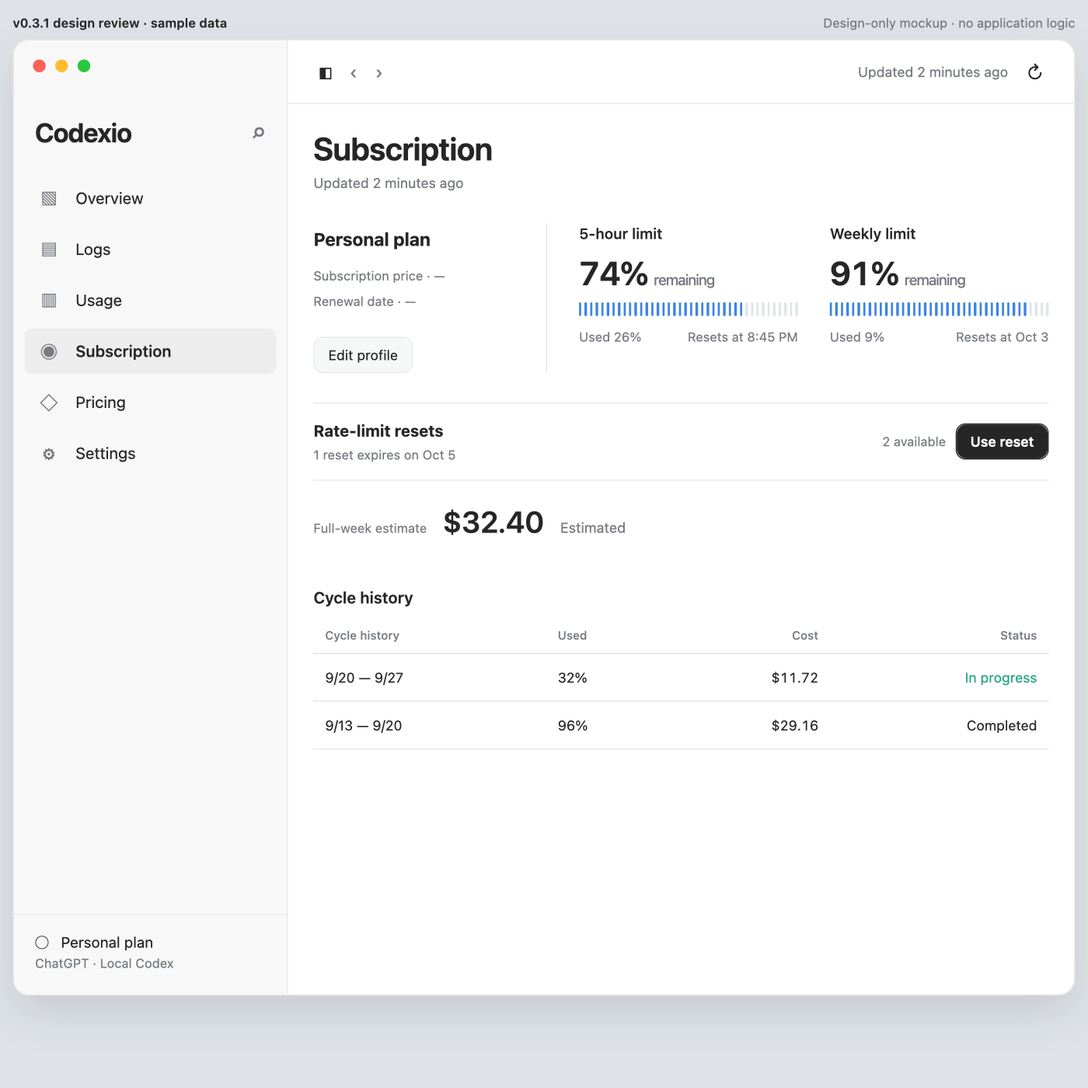
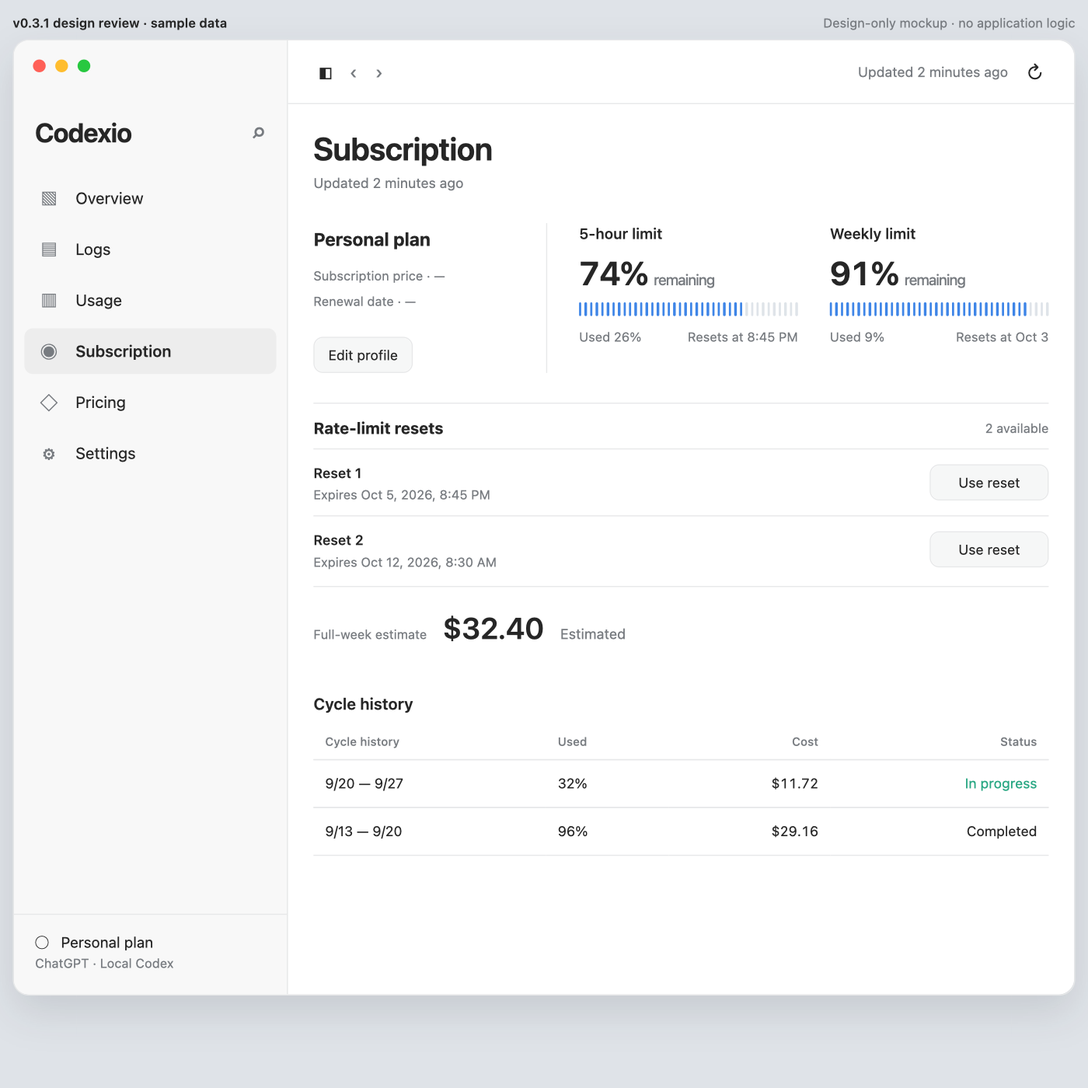
docs: design per-credit reset controls for v0.3.1

diff --git a/docs/v0.3.1/mockups/reset-confirm-zh.html b/docs/v0.3.1/mockups/reset-confirm-zh.html
@@ -1,1 +1,1 @@
-<!doctype html><html lang="zh-Hans"><head><meta charset="utf-8"><meta name="viewport" content="width=device-width,initial-scale=1"><title>Codexio 订阅 · v0.3.1 design</title><link rel="stylesheet" href="style.css"></head><body><div class="review-bar"><b>v0.3.1 设计评审 · 示意数据</b><span>Design-only mockup · no application logic</span></div><div class="window"><aside class="sidebar"><div class="traffic"><span></span><span></span><span></span></div><div class="brand">Codexio <span class="search">⌕</span></div><div class="nav"><div class="nav-item "><span class="icon">▧</span>概览</div><div class="nav-item "><span class="icon">▤</span>日志</div><div class="nav-item "><span class="icon">▥</span>用量</div><div class="nav-item active"><span class="icon">◉</span>订阅</div><div class="nav-item "><span class="icon">◇</span>定价</div><div class="nav-item "><span class="icon">⚙</span>设置</div></div><div class="side-bottom">◯ &nbsp; 个人订阅<div class="sub">ChatGPT · 本机 Codex</div></div></aside><main class="main"><div class="toolbar"><div class="left"><span class="glyph">◧</span><span>‹</span><span>›</span></div><div class="right"><span>最近更新 2 分钟前</span><span class="glyph" aria-label="刷新">↻</span></div></div><div class="page"><div class="page-header"><div><h1>订阅</h1><div class="subtitle">最近更新 2 分钟前</div></div></div><div class="profile-grid"><div class="profile"><b>个人订阅计划</b><div>订阅价格 · —</div><div>续费日期 · —</div><span class="quiet-button" style="margin-top:17px">编辑资料</span></div><div class="quota"><div class="quota-top"><span class="name">5 小时额度</span><span class="percent">74%<small>剩余</small></span></div><div class="segments "><i class="on"></i><i class="on"></i><i class="on"></i><i class="on"></i><i class="on"></i><i class="on"></i><i class="on"></i><i class="on"></i><i class="on"></i><i class="on"></i><i class="on"></i><i class="on"></i><i class="on"></i><i class="on"></i><i class="on"></i><i class="on"></i><i class="on"></i><i class="on"></i><i class="on"></i><i class="on"></i><i class="on"></i><i class="on"></i><i class="on"></i><i class="on"></i><i class="on"></i><i class="on"></i><i class="on"></i><i class="on"></i><i class="on"></i><i class="on"></i><i></i><i></i><i></i><i></i><i></i><i></i><i></i><i></i><i></i><i></i></div><div class="quota-foot"><span>已用 26%</span><span>重置时间 20:45</span></div></div><div class="quota"><div class="quota-top"><span class="name">周额度</span><span class="percent">91%<small>剩余</small></span></div><div class="segments "><i class="on"></i><i class="on"></i><i class="on"></i><i class="on"></i><i class="on"></i><i class="on"></i><i class="on"></i><i class="on"></i><i class="on"></i><i class="on"></i><i class="on"></i><i class="on"></i><i class="on"></i><i class="on"></i><i class="on"></i><i class="on"></i><i class="on"></i><i class="on"></i><i class="on"></i><i class="on"></i><i class="on"></i><i class="on"></i><i class="on"></i><i class="on"></i><i class="on"></i><i class="on"></i><i class="on"></i><i class="on"></i><i class="on"></i><i class="on"></i><i class="on"></i><i class="on"></i><i class="on"></i><i class="on"></i><i class="on"></i><i class="on"></i><i></i><i></i><i></i><i></i></div><div class="quota-foot"><span>已用 9%</span><span>重置时间 10 月 3 日</span></div></div></div><div class="reset-row"><div><b>主动重置</b><div class="count" style="margin-top:6px">1 次将于 10 月 5 日到期</div></div><div class="button-row"><span class="count">2 次可用</span><span class="primary-button">使用重置</span></div></div><div class="estimate"><span class="overline">整周额度估值</span><strong>$32.40</strong><small>估算</small></div><div class="list-heading"><strong>周期记录</strong></div><table class="table"><thead><tr><th>周期记录</th><th>已用</th><th class="num">费用</th><th class="num">状态</th></tr></thead><tbody><tr><td>9/20 — 9/27</td><td>32%</td><td class="num">$11.72</td><td class="num good">进行中</td></tr><tr><td>9/13 — 9/20</td><td>96%</td><td class="num">$29.16</td><td class="num">已完成</td></tr></tbody></table></div></main></div><div class="modal-backdrop"><div class="modal"><h2>使用 1 次额度重置？</h2><p>这会消耗当前账户的 1 次重置，无法撤销。</p><p>2 次可用</p><div class="actions"><span class="quiet-button">取消</span><span class="primary-button">使用重置</span></div></div></div></body></html>
+<!doctype html><html lang="zh-Hans"><head><meta charset="utf-8"><meta name="viewport" content="width=device-width,initial-scale=1"><title>Codexio 订阅 · v0.3.1 design</title><link rel="stylesheet" href="style.css"></head><body><div class="review-bar"><b>v0.3.1 设计评审 · 示意数据</b><span>Design-only mockup · no application logic</span></div><div class="window"><aside class="sidebar"><div class="traffic"><span></span><span></span><span></span></div><div class="brand">Codexio <span class="search">⌕</span></div><div class="nav"><div class="nav-item "><span class="icon">▧</span>概览</div><div class="nav-item "><span class="icon">▤</span>日志</div><div class="nav-item "><span class="icon">▥</span>用量</div><div class="nav-item active"><span class="icon">◉</span>订阅</div><div class="nav-item "><span class="icon">◇</span>定价</div><div class="nav-item "><span class="icon">⚙</span>设置</div></div><div class="side-bottom">◯ &nbsp; 个人订阅<div class="sub">ChatGPT · 本机 Codex</div></div></aside><main class="main"><div class="toolbar"><div class="left"><span class="glyph">◧</span><span>‹</span><span>›</span></div><div class="right"><span>最近更新 2 分钟前</span><span class="glyph" aria-label="刷新">↻</span></div></div><div class="page"><div class="page-header"><div><h1>订阅</h1><div class="subtitle">最近更新 2 分钟前</div></div></div><div class="profile-grid"><div class="profile"><b>个人订阅计划</b><div>订阅价格 · —</div><div>续费日期 · —</div><span class="quiet-button" style="margin-top:17px">编辑资料</span></div><div class="quota"><div class="quota-top"><span class="name">5 小时额度</span><span class="percent">74%<small>剩余</small></span></div><div class="segments "><i class="on"></i><i class="on"></i><i class="on"></i><i class="on"></i><i class="on"></i><i class="on"></i><i class="on"></i><i class="on"></i><i class="on"></i><i class="on"></i><i class="on"></i><i class="on"></i><i class="on"></i><i class="on"></i><i class="on"></i><i class="on"></i><i class="on"></i><i class="on"></i><i class="on"></i><i class="on"></i><i class="on"></i><i class="on"></i><i class="on"></i><i class="on"></i><i class="on"></i><i class="on"></i><i class="on"></i><i class="on"></i><i class="on"></i><i class="on"></i><i></i><i></i><i></i><i></i><i></i><i></i><i></i><i></i><i></i><i></i></div><div class="quota-foot"><span>已用 26%</span><span>重置时间 20:45</span></div></div><div class="quota"><div class="quota-top"><span class="name">周额度</span><span class="percent">91%<small>剩余</small></span></div><div class="segments "><i class="on"></i><i class="on"></i><i class="on"></i><i class="on"></i><i class="on"></i><i class="on"></i><i class="on"></i><i class="on"></i><i class="on"></i><i class="on"></i><i class="on"></i><i class="on"></i><i class="on"></i><i class="on"></i><i class="on"></i><i class="on"></i><i class="on"></i><i class="on"></i><i class="on"></i><i class="on"></i><i class="on"></i><i class="on"></i><i class="on"></i><i class="on"></i><i class="on"></i><i class="on"></i><i class="on"></i><i class="on"></i><i class="on"></i><i class="on"></i><i class="on"></i><i class="on"></i><i class="on"></i><i class="on"></i><i class="on"></i><i class="on"></i><i></i><i></i><i></i><i></i></div><div class="quota-foot"><span>已用 9%</span><span>重置时间 10 月 3 日</span></div></div></div><div class="reset-section"><div class="reset-heading"><b>主动重置</b><span class="count">2 次可用</span></div><div class="reset-credit-row"><div><b>重置 1</b><div class="expiry">截止时间：2026 年 10 月 5 日 20:45</div></div><span class="quiet-button">使用重置</span></div><div class="reset-credit-row"><div><b>重置 2</b><div class="expiry">截止时间：2026 年 10 月 12 日 08:30</div></div><span class="quiet-button">使用重置</span></div></div><div class="estimate"><span class="overline">整周额度估值</span><strong>$32.40</strong><small>估算</small></div><div class="list-heading"><strong>周期记录</strong></div><table class="table"><thead><tr><th>周期记录</th><th>已用</th><th class="num">费用</th><th class="num">状态</th></tr></thead><tbody><tr><td>9/20 — 9/27</td><td>32%</td><td class="num">$11.72</td><td class="num good">进行中</td></tr><tr><td>9/13 — 9/20</td><td>96%</td><td class="num">$29.16</td><td class="num">已完成</td></tr></tbody></table></div></main></div><div class="modal-backdrop"><div class="modal"><h2>使用这次额度重置？</h2><p>所选：重置 1 · 截止时间 2026 年 10 月 5 日 20:45</p><p>这会消耗当前账户中所选的重置，无法撤销。</p><div class="actions"><span class="quiet-button">取消</span><span class="primary-button">使用重置</span></div></div></div></body></html>

diff --git a/docs/v0.3.1/mockups/reset-confirm-en.html b/docs/v0.3.1/mockups/reset-confirm-en.html
@@ -1,1 +1,1 @@
-<!doctype html><html lang="en"><head><meta charset="utf-8"><meta name="viewport" content="width=device-width,initial-scale=1"><title>Codexio Subscription · v0.3.1 design</title><link rel="stylesheet" href="style.css"></head><body><div class="review-bar"><b>v0.3.1 design review · sample data</b><span>Design-only mockup · no application logic</span></div><div class="window"><aside class="sidebar"><div class="traffic"><span></span><span></span><span></span></div><div class="brand">Codexio <span class="search">⌕</span></div><div class="nav"><div class="nav-item "><span class="icon">▧</span>Overview</div><div class="nav-item "><span class="icon">▤</span>Logs</div><div class="nav-item "><span class="icon">▥</span>Usage</div><div class="nav-item active"><span class="icon">◉</span>Subscription</div><div class="nav-item "><span class="icon">◇</span>Pricing</div><div class="nav-item "><span class="icon">⚙</span>Settings</div></div><div class="side-bottom">◯ &nbsp; Personal plan<div class="sub">ChatGPT · Local Codex</div></div></aside><main class="main"><div class="toolbar"><div class="left"><span class="glyph">◧</span><span>‹</span><span>›</span></div><div class="right"><span>Updated 2 minutes ago</span><span class="glyph" aria-label="Refresh">↻</span></div></div><div class="page"><div class="page-header"><div><h1>Subscription</h1><div class="subtitle">Updated 2 minutes ago</div></div></div><div class="profile-grid"><div class="profile"><b>Personal plan</b><div>Subscription price · —</div><div>Renewal date · —</div><span class="quiet-button" style="margin-top:17px">Edit profile</span></div><div class="quota"><div class="quota-top"><span class="name">5-hour limit</span><span class="percent">74%<small>remaining</small></span></div><div class="segments "><i class="on"></i><i class="on"></i><i class="on"></i><i class="on"></i><i class="on"></i><i class="on"></i><i class="on"></i><i class="on"></i><i class="on"></i><i class="on"></i><i class="on"></i><i class="on"></i><i class="on"></i><i class="on"></i><i class="on"></i><i class="on"></i><i class="on"></i><i class="on"></i><i class="on"></i><i class="on"></i><i class="on"></i><i class="on"></i><i class="on"></i><i class="on"></i><i class="on"></i><i class="on"></i><i class="on"></i><i class="on"></i><i class="on"></i><i class="on"></i><i></i><i></i><i></i><i></i><i></i><i></i><i></i><i></i><i></i><i></i></div><div class="quota-foot"><span>Used 26%</span><span>Resets at 8:45 PM</span></div></div><div class="quota"><div class="quota-top"><span class="name">Weekly limit</span><span class="percent">91%<small>remaining</small></span></div><div class="segments "><i class="on"></i><i class="on"></i><i class="on"></i><i class="on"></i><i class="on"></i><i class="on"></i><i class="on"></i><i class="on"></i><i class="on"></i><i class="on"></i><i class="on"></i><i class="on"></i><i class="on"></i><i class="on"></i><i class="on"></i><i class="on"></i><i class="on"></i><i class="on"></i><i class="on"></i><i class="on"></i><i class="on"></i><i class="on"></i><i class="on"></i><i class="on"></i><i class="on"></i><i class="on"></i><i class="on"></i><i class="on"></i><i class="on"></i><i class="on"></i><i class="on"></i><i class="on"></i><i class="on"></i><i class="on"></i><i class="on"></i><i class="on"></i><i></i><i></i><i></i><i></i></div><div class="quota-foot"><span>Used 9%</span><span>Resets at Oct 3</span></div></div></div><div class="reset-row"><div><b>Rate-limit resets</b><div class="count" style="margin-top:6px">1 reset expires on Oct 5</div></div><div class="button-row"><span class="count">2 available</span><span class="primary-button">Use reset</span></div></div><div class="estimate"><span class="overline">Full-week estimate</span><strong>$32.40</strong><small>Estimated</small></div><div class="list-heading"><strong>Cycle history</strong></div><table class="table"><thead><tr><th>Cycle history</th><th>Used</th><th class="num">Cost</th><th class="num">Status</th></tr></thead><tbody><tr><td>9/20 — 9/27</td><td>32%</td><td class="num">$11.72</td><td class="num good">In progress</td></tr><tr><td>9/13 — 9/20</td><td>96%</td><td class="num">$29.16</td><td class="num">Completed</td></tr></tbody></table></div></main></div><div class="modal-backdrop"><div class="modal"><h2>Use one reset?</h2><p>This will consume one reset for the current account. It can’t be undone.</p><p>2 available</p><div class="actions"><span class="quiet-button">Cancel</span><span class="primary-button">Use reset</span></div></div></div></body></html>
+<!doctype html><html lang="en"><head><meta charset="utf-8"><meta name="viewport" content="width=device-width,initial-scale=1"><title>Codexio Subscription · v0.3.1 design</title><link rel="stylesheet" href="style.css"></head><body><div class="review-bar"><b>v0.3.1 design review · sample data</b><span>Design-only mockup · no application logic</span></div><div class="window"><aside class="sidebar"><div class="traffic"><span></span><span></span><span></span></div><div class="brand">Codexio <span class="search">⌕</span></div><div class="nav"><div class="nav-item "><span class="icon">▧</span>Overview</div><div class="nav-item "><span class="icon">▤</span>Logs</div><div class="nav-item "><span class="icon">▥</span>Usage</div><div class="nav-item active"><span class="icon">◉</span>Subscription</div><div class="nav-item "><span class="icon">◇</span>Pricing</div><div class="nav-item "><span class="icon">⚙</span>Settings</div></div><div class="side-bottom">◯ &nbsp; Personal plan<div class="sub">ChatGPT · Local Codex</div></div></aside><main class="main"><div class="toolbar"><div class="left"><span class="glyph">◧</span><span>‹</span><span>›</span></div><div class="right"><span>Updated 2 minutes ago</span><span class="glyph" aria-label="Refresh">↻</span></div></div><div class="page"><div class="page-header"><div><h1>Subscription</h1><div class="subtitle">Updated 2 minutes ago</div></div></div><div class="profile-grid"><div class="profile"><b>Personal plan</b><div>Subscription price · —</div><div>Renewal date · —</div><span class="quiet-button" style="margin-top:17px">Edit profile</span></div><div class="quota"><div class="quota-top"><span class="name">5-hour limit</span><span class="percent">74%<small>remaining</small></span></div><div class="segments "><i class="on"></i><i class="on"></i><i class="on"></i><i class="on"></i><i class="on"></i><i class="on"></i><i class="on"></i><i class="on"></i><i class="on"></i><i class="on"></i><i class="on"></i><i class="on"></i><i class="on"></i><i class="on"></i><i class="on"></i><i class="on"></i><i class="on"></i><i class="on"></i><i class="on"></i><i class="on"></i><i class="on"></i><i class="on"></i><i class="on"></i><i class="on"></i><i class="on"></i><i class="on"></i><i class="on"></i><i class="on"></i><i class="on"></i><i class="on"></i><i></i><i></i><i></i><i></i><i></i><i></i><i></i><i></i><i></i><i></i></div><div class="quota-foot"><span>Used 26%</span><span>Resets at 8:45 PM</span></div></div><div class="quota"><div class="quota-top"><span class="name">Weekly limit</span><span class="percent">91%<small>remaining</small></span></div><div class="segments "><i class="on"></i><i class="on"></i><i class="on"></i><i class="on"></i><i class="on"></i><i class="on"></i><i class="on"></i><i class="on"></i><i class="on"></i><i class="on"></i><i class="on"></i><i class="on"></i><i class="on"></i><i class="on"></i><i class="on"></i><i class="on"></i><i class="on"></i><i class="on"></i><i class="on"></i><i class="on"></i><i class="on"></i><i class="on"></i><i class="on"></i><i class="on"></i><i class="on"></i><i class="on"></i><i class="on"></i><i class="on"></i><i class="on"></i><i class="on"></i><i class="on"></i><i class="on"></i><i class="on"></i><i class="on"></i><i class="on"></i><i class="on"></i><i></i><i></i><i></i><i></i></div><div class="quota-foot"><span>Used 9%</span><span>Resets at Oct 3</span></div></div></div><div class="reset-section"><div class="reset-heading"><b>Rate-limit resets</b><span class="count">2 available</span></div><div class="reset-credit-row"><div><b>Reset 1</b><div class="expiry">Expires Oct 5, 2026, 8:45 PM</div></div><span class="quiet-button">Use reset</span></div><div class="reset-credit-row"><div><b>Reset 2</b><div class="expiry">Expires Oct 12, 2026, 8:30 AM</div></div><span class="quiet-button">Use reset</span></div></div><div class="estimate"><span class="overline">Full-week estimate</span><strong>$32.40</strong><small>Estimated</small></div><div class="list-heading"><strong>Cycle history</strong></div><table class="table"><thead><tr><th>Cycle history</th><th>Used</th><th class="num">Cost</th><th class="num">Status</th></tr></thead><tbody><tr><td>9/20 — 9/27</td><td>32%</td><td class="num">$11.72</td><td class="num good">In progress</td></tr><tr><td>9/13 — 9/20</td><td>96%</td><td class="num">$29.16</td><td class="num">Completed</td></tr></tbody></table></div></main></div><div class="modal-backdrop"><div class="modal"><h2>Use this reset?</h2><p>Selected: Reset 1 · Expires Oct 5, 2026, 8:45 PM</p><p>This will consume the selected reset for the current account. It can’t be undone.</p><div class="actions"><span class="quiet-button">Cancel</span><span class="primary-button">Use reset</span></div></div></div></body></html>

diff --git a/docs/v0.3.1/mockups/subscription-zh.html b/docs/v0.3.1/mockups/subscription-zh.html
@@ -1,1 +1,1 @@
-<!doctype html><html lang="zh-Hans"><head><meta charset="utf-8"><meta name="viewport" content="width=device-width,initial-scale=1"><title>Codexio 订阅 · v0.3.1 design</title><link rel="stylesheet" href="style.css"></head><body><div class="review-bar"><b>v0.3.1 设计评审 · 示意数据</b><span>Design-only mockup · no application logic</span></div><div class="window"><aside class="sidebar"><div class="traffic"><span></span><span></span><span></span></div><div class="brand">Codexio <span class="search">⌕</span></div><div class="nav"><div class="nav-item "><span class="icon">▧</span>概览</div><div class="nav-item "><span class="icon">▤</span>日志</div><div class="nav-item "><span class="icon">▥</span>用量</div><div class="nav-item active"><span class="icon">◉</span>订阅</div><div class="nav-item "><span class="icon">◇</span>定价</div><div class="nav-item "><span class="icon">⚙</span>设置</div></div><div class="side-bottom">◯ &nbsp; 个人订阅<div class="sub">ChatGPT · 本机 Codex</div></div></aside><main class="main"><div class="toolbar"><div class="left"><span class="glyph">◧</span><span>‹</span><span>›</span></div><div class="right"><span>最近更新 2 分钟前</span><span class="glyph" aria-label="刷新">↻</span></div></div><div class="page"><div class="page-header"><div><h1>订阅</h1><div class="subtitle">最近更新 2 分钟前</div></div></div><div class="profile-grid"><div class="profile"><b>个人订阅计划</b><div>订阅价格 · —</div><div>续费日期 · —</div><span class="quiet-button" style="margin-top:17px">编辑资料</span></div><div class="quota"><div class="quota-top"><span class="name">5 小时额度</span><span class="percent">74%<small>剩余</small></span></div><div class="segments "><i class="on"></i><i class="on"></i><i class="on"></i><i class="on"></i><i class="on"></i><i class="on"></i><i class="on"></i><i class="on"></i><i class="on"></i><i class="on"></i><i class="on"></i><i class="on"></i><i class="on"></i><i class="on"></i><i class="on"></i><i class="on"></i><i class="on"></i><i class="on"></i><i class="on"></i><i class="on"></i><i class="on"></i><i class="on"></i><i class="on"></i><i class="on"></i><i class="on"></i><i class="on"></i><i class="on"></i><i class="on"></i><i class="on"></i><i class="on"></i><i></i><i></i><i></i><i></i><i></i><i></i><i></i><i></i><i></i><i></i></div><div class="quota-foot"><span>已用 26%</span><span>重置时间 20:45</span></div></div><div class="quota"><div class="quota-top"><span class="name">周额度</span><span class="percent">91%<small>剩余</small></span></div><div class="segments "><i class="on"></i><i class="on"></i><i class="on"></i><i class="on"></i><i class="on"></i><i class="on"></i><i class="on"></i><i class="on"></i><i class="on"></i><i class="on"></i><i class="on"></i><i class="on"></i><i class="on"></i><i class="on"></i><i class="on"></i><i class="on"></i><i class="on"></i><i class="on"></i><i class="on"></i><i class="on"></i><i class="on"></i><i class="on"></i><i class="on"></i><i class="on"></i><i class="on"></i><i class="on"></i><i class="on"></i><i class="on"></i><i class="on"></i><i class="on"></i><i class="on"></i><i class="on"></i><i class="on"></i><i class="on"></i><i class="on"></i><i class="on"></i><i></i><i></i><i></i><i></i></div><div class="quota-foot"><span>已用 9%</span><span>重置时间 10 月 3 日</span></div></div></div><div class="reset-row"><div><b>主动重置</b><div class="count" style="margin-top:6px">1 次将于 10 月 5 日到期</div></div><div class="button-row"><span class="count">2 次可用</span><span class="primary-button">使用重置</span></div></div><div class="estimate"><span class="overline">整周额度估值</span><strong>$32.40</strong><small>估算</small></div><div class="list-heading"><strong>周期记录</strong></div><table class="table"><thead><tr><th>周期记录</th><th>已用</th><th class="num">费用</th><th class="num">状态</th></tr></thead><tbody><tr><td>9/20 — 9/27</td><td>32%</td><td class="num">$11.72</td><td class="num good">进行中</td></tr><tr><td>9/13 — 9/20</td><td>96%</td><td class="num">$29.16</td><td class="num">已完成</td></tr></tbody></table></div></main></div></body></html>
+<!doctype html><html lang="zh-Hans"><head><meta charset="utf-8"><meta name="viewport" content="width=device-width,initial-scale=1"><title>Codexio 订阅 · v0.3.1 design</title><link rel="stylesheet" href="style.css"></head><body><div class="review-bar"><b>v0.3.1 设计评审 · 示意数据</b><span>Design-only mockup · no application logic</span></div><div class="window"><aside class="sidebar"><div class="traffic"><span></span><span></span><span></span></div><div class="brand">Codexio <span class="search">⌕</span></div><div class="nav"><div class="nav-item "><span class="icon">▧</span>概览</div><div class="nav-item "><span class="icon">▤</span>日志</div><div class="nav-item "><span class="icon">▥</span>用量</div><div class="nav-item active"><span class="icon">◉</span>订阅</div><div class="nav-item "><span class="icon">◇</span>定价</div><div class="nav-item "><span class="icon">⚙</span>设置</div></div><div class="side-bottom">◯ &nbsp; 个人订阅<div class="sub">ChatGPT · 本机 Codex</div></div></aside><main class="main"><div class="toolbar"><div class="left"><span class="glyph">◧</span><span>‹</span><span>›</span></div><div class="right"><span>最近更新 2 分钟前</span><span class="glyph" aria-label="刷新">↻</span></div></div><div class="page"><div class="page-header"><div><h1>订阅</h1><div class="subtitle">最近更新 2 分钟前</div></div></div><div class="profile-grid"><div class="profile"><b>个人订阅计划</b><div>订阅价格 · —</div><div>续费日期 · —</div><span class="quiet-button" style="margin-top:17px">编辑资料</span></div><div class="quota"><div class="quota-top"><span class="name">5 小时额度</span><span class="percent">74%<small>剩余</small></span></div><div class="segments "><i class="on"></i><i class="on"></i><i class="on"></i><i class="on"></i><i class="on"></i><i class="on"></i><i class="on"></i><i class="on"></i><i class="on"></i><i class="on"></i><i class="on"></i><i class="on"></i><i class="on"></i><i class="on"></i><i class="on"></i><i class="on"></i><i class="on"></i><i class="on"></i><i class="on"></i><i class="on"></i><i class="on"></i><i class="on"></i><i class="on"></i><i class="on"></i><i class="on"></i><i class="on"></i><i class="on"></i><i class="on"></i><i class="on"></i><i class="on"></i><i></i><i></i><i></i><i></i><i></i><i></i><i></i><i></i><i></i><i></i></div><div class="quota-foot"><span>已用 26%</span><span>重置时间 20:45</span></div></div><div class="quota"><div class="quota-top"><span class="name">周额度</span><span class="percent">91%<small>剩余</small></span></div><div class="segments "><i class="on"></i><i class="on"></i><i class="on"></i><i class="on"></i><i class="on"></i><i class="on"></i><i class="on"></i><i class="on"></i><i class="on"></i><i class="on"></i><i class="on"></i><i class="on"></i><i class="on"></i><i class="on"></i><i class="on"></i><i class="on"></i><i class="on"></i><i class="on"></i><i class="on"></i><i class="on"></i><i class="on"></i><i class="on"></i><i class="on"></i><i class="on"></i><i class="on"></i><i class="on"></i><i class="on"></i><i class="on"></i><i class="on"></i><i class="on"></i><i class="on"></i><i class="on"></i><i class="on"></i><i class="on"></i><i class="on"></i><i class="on"></i><i></i><i></i><i></i><i></i></div><div class="quota-foot"><span>已用 9%</span><span>重置时间 10 月 3 日</span></div></div></div><div class="reset-section"><div class="reset-heading"><b>主动重置</b><span class="count">2 次可用</span></div><div class="reset-credit-row"><div><b>重置 1</b><div class="expiry">截止时间：2026 年 10 月 5 日 20:45</div></div><span class="quiet-button">使用重置</span></div><div class="reset-credit-row"><div><b>重置 2</b><div class="expiry">截止时间：2026 年 10 月 12 日 08:30</div></div><span class="quiet-button">使用重置</span></div></div><div class="estimate"><span class="overline">整周额度估值</span><strong>$32.40</strong><small>估算</small></div><div class="list-heading"><strong>周期记录</strong></div><table class="table"><thead><tr><th>周期记录</th><th>已用</th><th class="num">费用</th><th class="num">状态</th></tr></thead><tbody><tr><td>9/20 — 9/27</td><td>32%</td><td class="num">$11.72</td><td class="num good">进行中</td></tr><tr><td>9/13 — 9/20</td><td>96%</td><td class="num">$29.16</td><td class="num">已完成</td></tr></tbody></table></div></main></div></body></html>

diff --git a/docs/v0.3.1/mockups/subscription-en.html b/docs/v0.3.1/mockups/subscription-en.html
@@ -1,1 +1,1 @@
-<!doctype html><html lang="en"><head><meta charset="utf-8"><meta name="viewport" content="width=device-width,initial-scale=1"><title>Codexio Subscription · v0.3.1 design</title><link rel="stylesheet" href="style.css"></head><body><div class="review-bar"><b>v0.3.1 design review · sample data</b><span>Design-only mockup · no application logic</span></div><div class="window"><aside class="sidebar"><div class="traffic"><span></span><span></span><span></span></div><div class="brand">Codexio <span class="search">⌕</span></div><div class="nav"><div class="nav-item "><span class="icon">▧</span>Overview</div><div class="nav-item "><span class="icon">▤</span>Logs</div><div class="nav-item "><span class="icon">▥</span>Usage</div><div class="nav-item active"><span class="icon">◉</span>Subscription</div><div class="nav-item "><span class="icon">◇</span>Pricing</div><div class="nav-item "><span class="icon">⚙</span>Settings</div></div><div class="side-bottom">◯ &nbsp; Personal plan<div class="sub">ChatGPT · Local Codex</div></div></aside><main class="main"><div class="toolbar"><div class="left"><span class="glyph">◧</span><span>‹</span><span>›</span></div><div class="right"><span>Updated 2 minutes ago</span><span class="glyph" aria-label="Refresh">↻</span></div></div><div class="page"><div class="page-header"><div><h1>Subscription</h1><div class="subtitle">Updated 2 minutes ago</div></div></div><div class="profile-grid"><div class="profile"><b>Personal plan</b><div>Subscription price · —</div><div>Renewal date · —</div><span class="quiet-button" style="margin-top:17px">Edit profile</span></div><div class="quota"><div class="quota-top"><span class="name">5-hour limit</span><span class="percent">74%<small>remaining</small></span></div><div class="segments "><i class="on"></i><i class="on"></i><i class="on"></i><i class="on"></i><i class="on"></i><i class="on"></i><i class="on"></i><i class="on"></i><i class="on"></i><i class="on"></i><i class="on"></i><i class="on"></i><i class="on"></i><i class="on"></i><i class="on"></i><i class="on"></i><i class="on"></i><i class="on"></i><i class="on"></i><i class="on"></i><i class="on"></i><i class="on"></i><i class="on"></i><i class="on"></i><i class="on"></i><i class="on"></i><i class="on"></i><i class="on"></i><i class="on"></i><i class="on"></i><i></i><i></i><i></i><i></i><i></i><i></i><i></i><i></i><i></i><i></i></div><div class="quota-foot"><span>Used 26%</span><span>Resets at 8:45 PM</span></div></div><div class="quota"><div class="quota-top"><span class="name">Weekly limit</span><span class="percent">91%<small>remaining</small></span></div><div class="segments "><i class="on"></i><i class="on"></i><i class="on"></i><i class="on"></i><i class="on"></i><i class="on"></i><i class="on"></i><i class="on"></i><i class="on"></i><i class="on"></i><i class="on"></i><i class="on"></i><i class="on"></i><i class="on"></i><i class="on"></i><i class="on"></i><i class="on"></i><i class="on"></i><i class="on"></i><i class="on"></i><i class="on"></i><i class="on"></i><i class="on"></i><i class="on"></i><i class="on"></i><i class="on"></i><i class="on"></i><i class="on"></i><i class="on"></i><i class="on"></i><i class="on"></i><i class="on"></i><i class="on"></i><i class="on"></i><i class="on"></i><i class="on"></i><i></i><i></i><i></i><i></i></div><div class="quota-foot"><span>Used 9%</span><span>Resets at Oct 3</span></div></div></div><div class="reset-row"><div><b>Rate-limit resets</b><div class="count" style="margin-top:6px">1 reset expires on Oct 5</div></div><div class="button-row"><span class="count">2 available</span><span class="primary-button">Use reset</span></div></div><div class="estimate"><span class="overline">Full-week estimate</span><strong>$32.40</strong><small>Estimated</small></div><div class="list-heading"><strong>Cycle history</strong></div><table class="table"><thead><tr><th>Cycle history</th><th>Used</th><th class="num">Cost</th><th class="num">Status</th></tr></thead><tbody><tr><td>9/20 — 9/27</td><td>32%</td><td class="num">$11.72</td><td class="num good">In progress</td></tr><tr><td>9/13 — 9/20</td><td>96%</td><td class="num">$29.16</td><td class="num">Completed</td></tr></tbody></table></div></main></div></body></html>
+<!doctype html><html lang="en"><head><meta charset="utf-8"><meta name="viewport" content="width=device-width,initial-scale=1"><title>Codexio Subscription · v0.3.1 design</title><link rel="stylesheet" href="style.css"></head><body><div class="review-bar"><b>v0.3.1 design review · sample data</b><span>Design-only mockup · no application logic</span></div><div class="window"><aside class="sidebar"><div class="traffic"><span></span><span></span><span></span></div><div class="brand">Codexio <span class="search">⌕</span></div><div class="nav"><div class="nav-item "><span class="icon">▧</span>Overview</div><div class="nav-item "><span class="icon">▤</span>Logs</div><div class="nav-item "><span class="icon">▥</span>Usage</div><div class="nav-item active"><span class="icon">◉</span>Subscription</div><div class="nav-item "><span class="icon">◇</span>Pricing</div><div class="nav-item "><span class="icon">⚙</span>Settings</div></div><div class="side-bottom">◯ &nbsp; Personal plan<div class="sub">ChatGPT · Local Codex</div></div></aside><main class="main"><div class="toolbar"><div class="left"><span class="glyph">◧</span><span>‹</span><span>›</span></div><div class="right"><span>Updated 2 minutes ago</span><span class="glyph" aria-label="Refresh">↻</span></div></div><div class="page"><div class="page-header"><div><h1>Subscription</h1><div class="subtitle">Updated 2 minutes ago</div></div></div><div class="profile-grid"><div class="profile"><b>Personal plan</b><div>Subscription price · —</div><div>Renewal date · —</div><span class="quiet-button" style="margin-top:17px">Edit profile</span></div><div class="quota"><div class="quota-top"><span class="name">5-hour limit</span><span class="percent">74%<small>remaining</small></span></div><div class="segments "><i class="on"></i><i class="on"></i><i class="on"></i><i class="on"></i><i class="on"></i><i class="on"></i><i class="on"></i><i class="on"></i><i class="on"></i><i class="on"></i><i class="on"></i><i class="on"></i><i class="on"></i><i class="on"></i><i class="on"></i><i class="on"></i><i class="on"></i><i class="on"></i><i class="on"></i><i class="on"></i><i class="on"></i><i class="on"></i><i class="on"></i><i class="on"></i><i class="on"></i><i class="on"></i><i class="on"></i><i class="on"></i><i class="on"></i><i class="on"></i><i></i><i></i><i></i><i></i><i></i><i></i><i></i><i></i><i></i><i></i></div><div class="quota-foot"><span>Used 26%</span><span>Resets at 8:45 PM</span></div></div><div class="quota"><div class="quota-top"><span class="name">Weekly limit</span><span class="percent">91%<small>remaining</small></span></div><div class="segments "><i class="on"></i><i class="on"></i><i class="on"></i><i class="on"></i><i class="on"></i><i class="on"></i><i class="on"></i><i class="on"></i><i class="on"></i><i class="on"></i><i class="on"></i><i class="on"></i><i class="on"></i><i class="on"></i><i class="on"></i><i class="on"></i><i class="on"></i><i class="on"></i><i class="on"></i><i class="on"></i><i class="on"></i><i class="on"></i><i class="on"></i><i class="on"></i><i class="on"></i><i class="on"></i><i class="on"></i><i class="on"></i><i class="on"></i><i class="on"></i><i class="on"></i><i class="on"></i><i class="on"></i><i class="on"></i><i class="on"></i><i class="on"></i><i></i><i></i><i></i><i></i></div><div class="quota-foot"><span>Used 9%</span><span>Resets at Oct 3</span></div></div></div><div class="reset-section"><div class="reset-heading"><b>Rate-limit resets</b><span class="count">2 available</span></div><div class="reset-credit-row"><div><b>Reset 1</b><div class="expiry">Expires Oct 5, 2026, 8:45 PM</div></div><span class="quiet-button">Use reset</span></div><div class="reset-credit-row"><div><b>Reset 2</b><div class="expiry">Expires Oct 12, 2026, 8:30 AM</div></div><span class="quiet-button">Use reset</span></div></div><div class="estimate"><span class="overline">Full-week estimate</span><strong>$32.40</strong><small>Estimated</small></div><div class="list-heading"><strong>Cycle history</strong></div><table class="table"><thead><tr><th>Cycle history</th><th>Used</th><th class="num">Cost</th><th class="num">Status</th></tr></thead><tbody><tr><td>9/20 — 9/27</td><td>32%</td><td class="num">$11.72</td><td class="num good">In progress</td></tr><tr><td>9/13 — 9/20</td><td>96%</td><td class="num">$29.16</td><td class="num">Completed</td></tr></tbody></table></div></main></div></body></html>

diff --git a/docs/v0.3.1/mockups/style.css b/docs/v0.3.1/mockups/style.css
@@ -144,10 +144,14 @@ body { margin: 0; background: var(--outer); color: var(--text); }
 .profile-grid .quota-top { display: block; }
 .profile-grid .quota .percent { display: block; margin-top: 13px; font-size: 31px; white-space: nowrap; }
 .profile-grid .quota .segments { margin-top: 12px; }
-.reset-row { display: flex; justify-content: space-between; align-items: center; gap: 20px; border-top: 1px solid var(--line); border-bottom: 1px solid var(--line); padding: 16px 0; }
-.reset-row .count { color: var(--muted); font-size: 12px; }
-.reset-row b { font-size: 15px; }
-.reset-row .button-row { margin-left: auto; }
+.reset-section { border-top: 1px solid var(--line); border-bottom: 1px solid var(--line); padding: 14px 0 3px; }
+.reset-heading { display: flex; justify-content: space-between; align-items: center; gap: 20px; padding-bottom: 10px; }
+.reset-heading b { font-size: 15px; }
+.reset-heading .count { color: var(--muted); font-size: 12px; }
+.reset-credit-row { display: flex; justify-content: space-between; align-items: center; gap: 20px; padding: 12px 0; border-top: 1px solid var(--line); }
+.reset-credit-row b { font-size: 13px; font-weight: 560; }
+.reset-credit-row .expiry { color: var(--muted); font-size: 12px; margin-top: 5px; }
+.reset-credit-row .quiet-button { min-width: 112px; }
 .estimate { display: flex; align-items: baseline; gap: 15px; padding: 22px 0; }
 .estimate strong { font-size: 28px; font-weight: 570; }
 .estimate small { color: var(--muted); }

diff --git a/docs/v0.3.1/DEVELOPMENT.md b/docs/v0.3.1/DEVELOPMENT.md
@@ -7,7 +7,7 @@
 - [x] Mac 全量 Swift 重构与 Windows 既有 UI 的边界已明确。
 - [x] 订阅页使用重置与删除 SSH 来源功能的 **Mac／Windows 双平台范围**已由用户确认。
 - [x] **简体中文／英文界面覆盖 Mac 与 Windows** 已由用户确认；按钮短文案“使用重置 / Use reset”、系统语言默认选择、两端字体与核心文案写入[本地化规范](LOCALIZATION.md)。
-- [x] 使用重置的官方方法、参数、幂等规则、四种结果和事后重新读取额度要求已从 [OpenAI Docs](https://learn.chatgpt.com/docs/app-server)核实；现有本地 `app-server` 客户端具备通用请求能力。
+- [x] 使用重置的官方方法、逐次 `credits[].id` → `creditId` 参数、幂等规则、四种结果、明细可能缺失以及事后重新读取额度要求已从 [OpenAI Docs](https://learn.chatgpt.com/docs/app-server)与本地协议类型核实；现有本地 `app-server` 客户端具备通用请求能力。
 - [x] Codex、Claude 和 Nowdex 的九张视觉参考图已保存到[仓库本地](references/SOURCES.md)，并核对网络图片的类型、大小与 SHA-256。
 - [x] 六页、菜单栏、新额度小组件、现有请求小组件保留、重置确认、SSH 退场与异常状态均有 [设计要求](VISUAL_SPEC.md)。
 - [x] 六页、设置三分区、日志常态与悬停详情、菜单栏的中英文[静态评审稿](mockups/README.md)已形成；主界面额度数字和默认宽度已按用户反馈修订。
@@ -35,7 +35,7 @@
 | 2. 旧数据兼容 | 梳理当前配置、价格目录、日志索引和 Widget 快照字段；实现只读旧数据／安全迁移 | 用户原有设置和索引可继续使用，失败可回退且不删除原文件 | 不以“全新大版本”为由清空本机历史 |
 | 3. SSH 功能退场，两端 | 从 Mac 新架构与 Windows 现有实现移除 SSH 扫描、连接和来源管理；设置页删除本机／SSH 列表、来源增删改、来源列／筛选和多来源归属入口 | 后续无 SSH 连接或扫描；本机 Codex 自动来源仍可读取；旧索引记录保留，不自动删除 | 不误删与 SSH 无关的上游检测功能或用户历史 |
 | 4. 额度与账户 | 移植 Codex 发现、`app-server` 连接、账户模式、五小时／周窗口、通知刷新和错误状态 | Swift 端能拿到与旧版同口径的额度；API／自定义 provider 模式显示不适用 | 不用本地 Token 推算官方余额，不在重置时刻伪造 100% |
-| 5. 重置按钮，两端 | Mac Swift 与 Windows Python 都接入 `account/rateLimitResetCredit/consume`，订阅页加入“使用重置”及逐次确认；共用同一结果文案与幂等处理规则 | 一次明确确认只对应一张已获得的重置；`reset`／`alreadyRedeemed` 刷新额度；`nothingToReset`／`noCredit` 显示准确结果；模拟模式不会消耗真实次数 | 不在页面打开、刷新或冒烟中自动消耗；超时不换幂等键重试 |
+| 5. 逐次重置，两端 | Mac Swift 与 Windows Python 在订阅页完整读取重置明细，按每张 `credits[].id` 显示截止时间与行末“使用重置”；确认后把所选 `id` 传作 `creditId` 并调用 `account/rateLimitResetCredit/consume` | 每张可用重置有单独按钮；一次确认只对用户选的那张生效；`reset`／`alreadyRedeemed` 刷新额度与列表；明细缺失时不提供通用代选按钮；模拟模式不会消耗真实次数 | 不在页面打开、刷新或冒烟中自动消耗；超时重试不换 `creditId` 或幂等键 |
 | 6. 用量与价格 | 只移植本机增量扫描、去重、主请求与模型调用分组、已确认 Token、费用和估值 | 六页所需数据由同一 Swift 数据层提供；新旧统计口径一致，旧 SSH 历史仍可读 | 不双算缓存 Token，不把未知价格显示成 0 |
 | 7. 主窗口与中英文 | 先按当前新版 Codex 完成原生外壳／侧栏／标题栏，再按较宽的设计稿完成概览、日志双模式、用量、订阅、定价、设置；日志末列“详情 / Details”悬停浮层；Mac 使用 String Catalog，Windows 使用集中翻译资源 | 两端六页、菜单与弹窗随系统 UI 语言显示；额度数字层级克制，英文主要字段不因窗口默认宽度意外换行；订阅有“使用重置 / Use reset” | 不添加固定日志详情栏，不复刻旧 Qt 的多层卡片、长注释和无意义悬停提示；不遗漏动态状态、复数或 Widget 文案 |
 | 8. 菜单栏 | 以 Nowdex #6 的面板视觉为直接样板，接入同一额度与今日／七日数据 | 关主窗口仍可查看；刷新、打开主窗口、设置、退出正确；无第二套采集器 | 不把 Nowdex 截图里的 Cursor/Grok 等服务新增到 Codexio |
@@ -58,7 +58,7 @@
 - Mac 与 Windows 在产品行为和数据口径上保持一致，但不强迫共用语言。Windows Python 仅为本轮明确要求的重置按钮与 SSH 来源退场而修改，不因 Mac UI 重构进行其他视觉改版。
 - 旧请求 Widget 的 UI **不得变化**。在重构过程中若 SwiftUI 系统渲染与现有视觉略有差异，优先调整宿主或渲染兼容以恢复旧外观，而不是宣布新版设计。
 - Mac／Windows 的用户可见文案覆盖简体中文和英文，默认使用系统首选界面语言；没有匹配资源时回退英文。Mac 不指定自定义界面字体，Windows 使用系统界面字体。旧请求 Widget 仅翻译固定标签，其布局与视觉不变。
-- `account/rateLimitResetCredit/consume` 只在订阅页用户逐次确认后调用；每次操作的幂等键要持续到结果确定。Windows 与 Mac 使用相同的服务端结果语义，绝不以点击按钮后本地改变百分比冒充成功。
+- `account/rateLimitResetCredit/consume` 只在订阅页用户挑选某张重置并逐次确认后调用；将该明细的 `id` 作为 `creditId`，其幂等键与 `creditId` 要持续到结果确定。Windows 与 Mac 使用相同的服务端结果语义，绝不以点击按钮后本地改变百分比冒充成功。
 - SSH 数据源及其设置入口从两端移除；旧索引数据保留为历史记录。仍可手动指定本机 Codex 路径；“上游检测”继续独立工作。
 - 新额度 Widget 小组件和菜单栏的刷新须遵循系统节奏；不能承诺逐秒实时。原始会话日志、Codex 凭据和系统 WidgetKit 数据库不被修改。
 - 保留现有自动更新的 ZIP、稳定宿主、签名校验和失败回滚规则。开发包只放 `build`，正式发布仍使用同版本 Mac ZIP、Windows EXE 与一份合并 `latest.json`。

diff --git a/docs/v0.3.1/NOTES.md b/docs/v0.3.1/NOTES.md
@@ -9,7 +9,7 @@
 - `docs/macos.md` 记录：0.2.9 已移除右上角菜单栏图标和旧预览；当前保留的是 macOS **应用菜单**与 Dock。`README.md` 前面的旧版本章节仍描述过菜单栏预览，那是历史行为。v0.3.1 要设计的是新的原生菜单栏状态项和面板。
 - 现有 WidgetKit 只有一个 `Codexio 请求` 配置，支持小、中、大三个尺寸；小尺寸仍以最近请求为主。**这三个尺寸的 UI 必须完全保留原样**，包括字级、布局、图形、颜色和内容顺序。新增额度专用的小尺寸组件必须有独立配置和稳定标识，避免升级后现有请求组件消失或变成另一种内容。
 - 小组件通过有界的 `widget_snapshot.json` 读取精简数据，不接触 Codex 原始日志或凭据。当前快照已包含额度和今日汇总，但快照的发布时机与读取权限仍需在 Swift 迁移时保持可靠。
-- 现有“订阅 → 主动重置”只显示可用次数与逐次信息，没有使用按钮。官方 Codex App Server 已提供 `account/rateLimitResetCredit/consume`，该方法需幂等键并返回 `reset`、`alreadyRedeemed`、`nothingToReset` 或 `noCredit`；本轮规划将 Mac 与 Windows 都接入此方法，不在设计阶段调用它。
+- 现有“订阅 → 主动重置”只显示可用次数与逐次信息，没有使用按钮。官方 Codex App Server 已提供 `account/rateLimitResetCredit/consume`，可把列表中所选条目的 `id` 作为 `creditId` 使用；该方法需幂等键并返回 `reset`、`alreadyRedeemed`、`nothingToReset` 或 `noCredit`。本轮规划 Mac 与 Windows 每张明细各有一枚按钮，不在设计阶段调用接口。
 - 本轮用户明确要求 Mac 与 Windows 都删除 SSH 来源功能及设置中的“本机／SSH 列表”。当前版本的本机来源与 SSH 来源共用列表；新版本将保留自动本机扫描，停止 SSH 连接和后续采集，旧索引记录不主动删除。
 - 当前 Mac 最低系统目标为 macOS 15；已在 Apple Silicon / macOS 27 实测，macOS 15 真机仍待验收。正式可支持的系统版本与芯片架构在设计冻结后、实施前再次核对。
 
@@ -22,7 +22,7 @@
 | App 生命周期、单实例、窗口恢复、菜单、Dock | `macos_app.py`、`dashboard_host.py` | 关窗不退出；重复打开恢复主窗口；菜单栏与主窗口状态一致 |
 | 六页 UI、筛选、日志详情、设置 | `dashboard.py` 及相关绘制模块 | 转为 Swift 原生控件和状态驱动视图，不仅包一层 Swift 窗口 |
 | ChatGPT 额度及账户模式 | `app_server.py`、`rate_limits.py`、`worker.py` | 仍只从本机 Codex `app-server` 读取真实额度；API Key／自定义 provider 模式显示不适用 |
-| 已获得额度重置的使用，Mac 与 Windows | `app_server.py`、`rate_limits.py`、`worker.py`、`dashboard.py` 及新 Swift 对应层 | 订阅页每次确认后调用官方 `account/rateLimitResetCredit/consume`；幂等键持久到结果确定，随后重新读额度与可用次数 |
+| 已获得额度重置的使用，Mac 与 Windows | `app_server.py`、`rate_limits.py`、`worker.py`、`dashboard.py` 及新 Swift 对应层 | 订阅页完整读取明细，逐张显示截止时间和行末按钮；所选 `id` 传作 `creditId`，幂等键持久到结果确定，随后重新读额度、可用次数与明细 |
 | 日志索引、去重、请求分组、用量 | `usage_collector.py`、`usage_store.py`、`usage_queries.py`、`usage_worker.py` 等 | 保留只读扫描、已确认 Token、用户请求与子代理归属、时区和跨日口径；兼容旧索引或明确安全迁移方案 |
 | 价格、费用、订阅估值 | `pricing.py`、`confirmed_usage.py`、`rolling_estimation.py` 等 | 保留现有价格目录、参考估值与未知值语义；费用不是实际账单 |
 | 本机／SSH 来源 | `remote_collector.py`、`analytics_config.py`、`usage_worker.py`、设置和日志筛选 | 两端删除 SSH 连接、增删改 UI 与来源过滤；自动本机扫描保留，旧 SSH 索引记录只作历史保留 |
@@ -42,7 +42,7 @@ Windows 仍使用现有 Python 实现，但本轮明确的**重置按钮和 SSH 
 4. **新鲜度**：主窗口、菜单栏与小组件对同一份状态使用一致的更新时间与过期规则；UI 未拿到数据时显示 `—` 和原因，不展示貌似真实的旧百分比。
 5. **隐私**：菜单栏和额度小组件默认只放额度及摘要，不直接外露用户请求文本；Widget 扩展只读取精简快照，不读取凭据或完整日志。
 6. **SSH 退场**：不再建立远程连接或定时扫描。旧 SSH 配置不再出现在设置或参与启动；历史索引行保留，原始远程日志和用户旧数据库不删除。新本机日志继续正常采集，“上游检测”单独保留。
-7. **重置操作**：只对当前适用 ChatGPT 账户显示可操作按钮；可用次数须来自 `rateLimitResetCredits.availableCount`。每次都由用户确认，结果和重试遵守官方幂等规则，不能用 UI 本地值代替服务端结果。按钮不触发真实额度重置的模拟或冒烟。
+7. **重置操作**：只对当前适用 ChatGPT 账户且服务端返回 `status=available`、非空 `id` 的逐次明细显示可操作按钮。可用总数来自 `rateLimitResetCredits.availableCount`；每张明细的截止时间来自 `expiresAt`，null 与字段缺失分开显示。用户选择一张并确认后才消费；结果和重试绑定同一 `creditId` 与幂等键，不能用 UI 本地值代替服务端结果。明细缺失或被截断时如实显示，不生成通用代选按钮；模拟或冒烟不触发真实重置。
 8. **迁移**：旧用户的设置、已建立的索引、历史价格与窗口偏好需要有兼容或安全迁移方案。迁移失败时保留原数据，不以重建为由删除用户信息。
 
 ## 4. Widget 与菜单栏生命周期

diff --git a/docs/v0.3.1/PLAN.md b/docs/v0.3.1/PLAN.md
@@ -10,7 +10,7 @@
 4. **新增额度专用最小桌面小组件**：以 Nowdex 附件 #1–#5 的实际样式为直接目标，提供单额度、双额度和刻度条等多个可选样式。原先自行设计的“Codexio X 标头 + 普通进度卡”方案已撤销。
 5. **现有请求小组件的小、中、大三种 UI 完全不变**：不重排、不换色、不调整字号、图形或内容层级。Swift 迁移时只做必要的实现兼容与身份保留；出现视觉差异即视为回归问题。
 6. **减少多余悬浮提示，保留日志专用详情预览**：日志表格最末列为“详情 / Details”，鼠标停留显示可滚动、可复制的浮层，移开链接与浮层后关闭，不占固定页面宽度。其他显而易见或重复的悬浮提示和注释式文案可以删除；错误、过期、费用估值等重要事实仍清楚显示。早期 Windows MVP `PLAN.md` 不再指导本次 Mac 设计。
-7. **订阅页加入“使用重置”**：Mac 与 Windows 都要在“主动重置／可用次数”旁提供按钮，经用户对每次使用作明确确认后，通过 Codex App Server 的 `account/rateLimitResetCredit/consume` 真正消耗一次已获得的额度重置；成功后重新读取服务端额度和次数。此处的“重置次数”不是付费余额。
+7. **订阅页逐次列出可用重置**：Mac 与 Windows 都在“主动重置”中显示每张重置及其截止时间，**每一行末尾各有“使用重置 / Use reset”按钮**，由用户选择。确认后把该行的 `creditId` 交给 Codex App Server 的 `account/rateLimitResetCredit/consume`；成功后重新读取额度和逐次列表。总次数只是摘要，不能代替逐行内容；此处的重置次数不是付费余额。
 8. **两端删除 SSH 来源功能**：Mac 与 Windows 均停止 SSH 采集，设置页移除“本机／SSH 列表”、来源增删改和多来源历史归属入口；保留自动发现本机 Codex 的路径设置和本地重扫。已索引的历史记录不因升级被删除；“上游检测”是另一项功能，继续保留。
 9. **快速完成，测试保持最小**：只沿用现有隔离模拟数据冒烟的三件事：能启动、基本数据显示正常、主窗口能关闭并重新打开。无新增测试文件、专项脚本、全量回归或截图矩阵。签名、Widget 版本、ZIP 和哈希仍按交付规则核验。
 10. **中英文界面覆盖 Mac 和 Windows**：默认按用户设备的界面语言选择简体中文或英文；两端导航、六页、设置、弹窗、菜单、状态及小组件文字使用同一套术语。Mac 的中文和英文均使用 macOS 默认系统字体；Windows 使用 Windows 系统界面字体。语言规范见 [LOCALIZATION.md](LOCALIZATION.md)。

diff --git a/docs/v0.3.1/LOCALIZATION.md b/docs/v0.3.1/LOCALIZATION.md
@@ -127,9 +127,17 @@
 | `subscription.weeklyEstimate` | 整周额度估值 | Full-week estimate |
 | `reset.section` | 主动重置 | Rate-limit resets |
 | `reset.availableCount` | 可用次数 | Available resets |
+| `reset.itemFallback` | 重置 {number} | Reset {number} |
+| `reset.expiresAt` | 截止时间 | Expires |
+| `reset.noExpiry` | 无到期限制 | No expiration |
+| `reset.expiryUnknown` | 截止时间未提供 | Expiration unavailable |
+| `reset.detailsUnavailable` | 逐次明细暂不可用，无法选择使用。 | Individual reset details are unavailable. You can’t choose a reset yet. |
+| `reset.partialDetails` | 仅显示 {shown} / {available} 次重置 | Showing {shown} of {available} resets |
+| `reset.redeeming` | 使用中 | Redeeming |
+| `reset.redeemed` | 已使用 | Redeemed |
 | `reset.use` | **使用重置** | **Use reset** |
-| `reset.confirmTitle` | 使用 1 次额度重置？ | Use one reset? |
-| `reset.confirmBody` | 这会消耗当前账户的 1 次重置，无法撤销。 | This will consume one reset for the current account. It can’t be undone. |
+| `reset.confirmTitle` | 使用这次额度重置？ | Use this reset? |
+| `reset.confirmBody` | 这会消耗当前账户中所选的重置，无法撤销。 | This will consume the selected reset for the current account. It can’t be undone. |
 | `reset.inProgress` | 正在使用重置… | Using reset… |
 | `reset.success` | 重置已使用，正在同步额度… | Reset used. Syncing limits… |
 | `reset.alreadyRedeemed` | 这次重置已完成，正在同步额度… | This reset was already completed. Syncing limits… |
@@ -139,7 +147,7 @@
 | `reset.retryAttempt` | 重试本次 | Retry attempt |
 | `reset.notSupported` | 当前账户不能使用额度重置。 | Resets aren’t available for this account. |
 
-按钮和确认按钮在两种语言里使用同一个短名称：**使用重置 / Use reset**。说明正文负责交代“消耗一次、无法撤销”；按钮不再写“使用一次重置”。数字 `0 / 1 / 2` 与“次可用”采用复数资源，不在源码中直接拼接。
+“主动重置”只在标题处显示可用总数，下面逐张列出服务端提供的名称、状态和截止时间，每张的右侧都有自己的 **使用重置 / Use reset** 按钮。确认框点名所选条目并再次显示它的截止时间；不提供会替用户选“下一张”的总按钮。说明正文负责交代“消耗所选一次、无法撤销”。数字 `0 / 1 / 2` 与“次可用”采用复数资源，不在源码中直接拼接。
 
 ### 3.5 定价、设置、更新与菜单栏
 

diff --git a/docs/v0.3.1/mockups/README.md b/docs/v0.3.1/mockups/README.md
@@ -2,7 +2,7 @@
 
 > 本目录只有设计评审资料：HTML/CSS 与渲染预览图，不接入 Codexio 程序、不执行额度重置，也不读取用户数据。所有数字、模型、价格和请求文字均为示意。界面字体使用 macOS 的 `-apple-system` 字体栈，参考图仍以 [VISUAL_SPEC.md](../VISUAL_SPEC.md) 指定的本地原图为准。
 
-[打开评审索引](index.html)可以按区域查看中文和英文稿。下表的预览图可以直接在 Markdown 中打开；HTML 文件保留可放大查看的完整布局。窗口稿已改为更宽的 1380 pt，主界面额度数字约 34 pt。日志恢复末列“详情 / Details”的悬停浮层，不占右侧固定宽度。
+[打开评审索引](index.html)可以按区域查看中文和英文稿。下表的预览图可以直接在 Markdown 中打开；HTML 文件保留可放大查看的完整布局。窗口稿已改为更宽的 1380 pt，主界面额度数字约 34 pt。日志恢复末列“详情 / Details”的悬停浮层，不占右侧固定宽度。订阅页逐张列出重置和完整截止时间，每行末尾独立提供“使用重置 / Use reset”，确认框会再次指明所选条目。
 
 | 区域 | 中文 HTML／预览 | English HTML／preview |
 | --- | --- | --- |

diff --git a/PRODUCT.md b/PRODUCT.md
@@ -1,6 +1,6 @@
 # Codexio product context
 
-> v0.3.1 的 Mac 原生重构以 [新规划](docs/v0.3.1/PLAN.md)为准。本文较早的 C 原型和 PySide6 布局要求仍可解释现有 Windows 行为，但不应覆盖本轮 Mac 界面设计；数据口径与用户已确认的产品事实继续适用。v0.3.1 已确认的双平台变更是订阅页“使用重置”、删除 SSH 来源功能，以及跟随系统语言的简体中文／英文界面；Mac 两种语言均使用系统默认字体，Windows 使用其系统界面字体。下方旧能力清单描述的是 0.2.10 现状。
+> v0.3.1 的 Mac 原生重构以 [新规划](docs/v0.3.1/PLAN.md)为准。本文较早的 C 原型和 PySide6 布局要求仍可解释现有 Windows 行为，但不应覆盖本轮 Mac 界面设计；数据口径与用户已确认的产品事实继续适用。v0.3.1 已确认的双平台变更是订阅页逐张列出额度重置及截止时间、每张提供“使用重置”、删除 SSH 来源功能，以及跟随系统语言的简体中文／英文界面；Mac 两种语言均使用系统默认字体，Windows 使用其系统界面字体。下方旧能力清单描述的是 0.2.10 现状。
 
 <!-- impeccable:product-schema 1 -->
 
